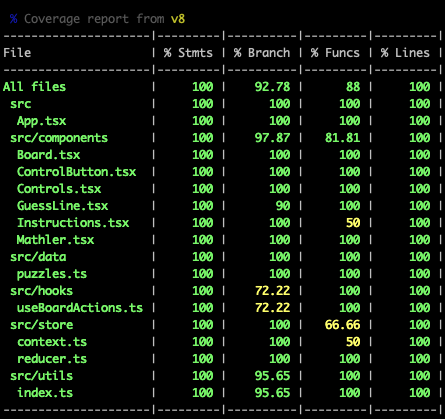
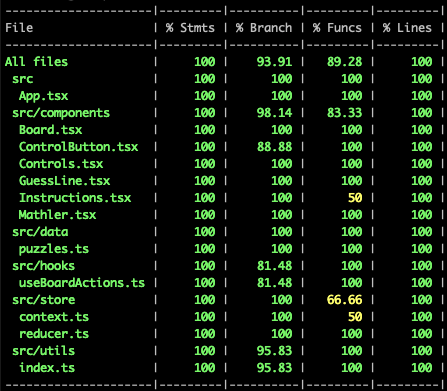
Update README and useBoardActions logic

Changed region(s): [[0.0, 0.0, 0.9933, 1.0]]

diff --git a/src/components/Instructions.tsx b/src/components/Instructions.tsx
@@ -1,7 +1,7 @@
 import { useState } from "react"
 import GuessLine from "./GuessLine"
 
-const Instructions: React.FC = () => {
+function Instructions() {
 	const [showModal, setShowModal] = useState<boolean>(false)
 
 	return (
@@ -27,7 +27,7 @@ const Instructions: React.FC = () => {
 											×
 										</span>
 									</button>
-									<div className="my-4 text-blueGray-500 text-md md:text-lg leading-relaxed">
+									<div className="my-4 text-blueGray-500 text-sm md:text-lg leading-relaxed">
 										<h2 className="font-bold text-2xl mb-2 pb-2 mx-auto border-b border-solid border-blueGray-200">
 											How to play Mathler
 										</h2>
@@ -75,9 +75,6 @@ const Instructions: React.FC = () => {
 												Commutative solutions will be automatically rearranged
 												to the exact solution
 											</li>
-											<p className="font-bold mt-2 md:mt-4">
-												An example of a winning game of 76
-											</p>
 										</ul>
 									</div>
 									<div className="flex items-center justify-end pt-5 border-t border-solid border-blueGray-200 rounded-b">

diff --git a/src/hooks/useBoardActions.ts b/src/hooks/useBoardActions.ts
@@ -49,6 +49,9 @@ function useBoardActions() {
 			areArraysEqual(calcMatches.sort(), curGuessMatches.sort())
 		) {
 			dispatch({ type: "setHasWon", value: true })
+			if (calculation !== currentGuess) {
+				dispatch({ type: "setCalculation", value: currentGuess })
+			}
 
 			// Play winning sound!
 			playWinSound()
@@ -75,17 +78,17 @@ function useBoardActions() {
 
 	const updateControlButtonStatuses = () => {
 		currentGuess.split("").map((char, i) => {
-			console.log(char)
 			if (!calculation?.includes(char)) {
 				controlButtonStatuses.set(char, Status.Incorrect)
-				return
+				return null
 			}
 
 			// Don't update a correct button
-			if (controlButtonStatuses.get(char) === Status.Correct) return
+			if (controlButtonStatuses.get(char) === Status.Correct) return null
 
 			const status = calculation[i] === char ? Status.Correct : Status.Misplaced
 			controlButtonStatuses.set(char, status)
+			return null
 		})
 	}
 

diff --git a/src/components/GuessLine.tsx b/src/components/GuessLine.tsx
@@ -10,13 +10,13 @@ interface GuessLineProps {
 	row: number
 }
 
-const GuessLine: React.FC<GuessLineProps> = ({
+function GuessLine({
 	guess,
 	calculation,
 	isFinal,
 	isWinningRow,
 	row,
-}) => {
+}: GuessLineProps) {
 	const winingRowStyle =
 		"border-green-500 transition-border ease-linear duration-900 border-2 rounded animate-pulse p-2"
 	const animationStyle =
@@ -39,7 +39,7 @@ const GuessLine: React.FC<GuessLineProps> = ({
 					<div
 						key={i}
 						className={twMerge(
-							"w-14 h-14 border-solid border-2 flex items-center justify-center font-bold rounded",
+							"w-12 h-12  border-solid border-2 flex items-center justify-center font-bold rounded",
 							cellStyle,
 							animationClass,
 						)}

diff --git a/src/components/Mathler.tsx b/src/components/Mathler.tsx
@@ -5,7 +5,7 @@ import Board from "./Board"
 import Controls from "./Controls"
 import Instructions from "./Instructions"
 
-const Mathler: React.FC = () => {
+function Mathler() {
 	const [state, dispatch] = useReducer(gameReducer, initState)
 	// eslint-disable-next-line
 	const [showGame, setShowGame] = useState<boolean>(false)
@@ -22,7 +22,7 @@ const Mathler: React.FC = () => {
 						MATHLER
 					</h1>
 				</header>
-				<div className="flex flex-col items-center gap-3 fade-in-scale game-fade-in">
+				<div className="flex flex-col items-center gap-5 fade-in-scale game-fade-in">
 					<Board />
 					<Controls />
 				</div>

diff --git a/src/components/Board.tsx b/src/components/Board.tsx
@@ -1,5 +1,5 @@
 import { Transition } from "@tailwindui/react"
-import React, { useEffect, useState } from "react"
+import { useEffect, useState } from "react"
 import { twMerge } from "tailwind-merge"
 import puzzles from "../data/puzzles"
 import useBoardActions from "../hooks/useBoardActions"
@@ -7,7 +7,7 @@ import { useGame } from "../store/context"
 import { NUM_GUESSES, getGuess, isValidTileValue } from "../utils"
 import GuessLine from "./GuessLine"
 
-const Board: React.FC = () => {
+function Board() {
 	const { state, dispatch } = useGame()
 	const { appendValueIfNeeded, processEnterKey } = useBoardActions()
 	const {

diff --git a/src/components/ControlButton.tsx b/src/components/ControlButton.tsx
@@ -7,7 +7,7 @@ interface ControlButtonProps {
 	className?: string
 }
 
-const ControlButton: React.FC<ControlButtonProps> = ({ text, className }) => {
+function ControlButton({ text, className }: ControlButtonProps) {
 	const { state, dispatch } = useGame()
 
 	// Mouse event handler for game button click

diff --git a/src/components/Controls.tsx b/src/components/Controls.tsx
@@ -1,7 +1,7 @@
 import { numbers, operators } from "../utils"
 import ControlButton from "./ControlButton"
 
-const Controls: React.FC = () => {
+function Controls() {
 	return (
 		<div className="flex flex-col gap-2">
 			<div className="flex justify-center">

diff --git a/README.md b/README.md
@@ -6,8 +6,7 @@ Mather is inspired by the game Wordle. But it is with numbers. The user has 6 gu
 
 - React + Typescript
 - Tailwind
-- Vitest
-- [pnpm](https://pnpm.io/)
+- Vitest + React Testing Library
 
 ## Get started
 
@@ -28,6 +27,32 @@ pnpm test
 ```sh
 pnpm coverage
 ```
+
+## Notes
+
+The game is fully functional and is meeting all the requirements:
+
+- Numbers and operators can appear multiple times.
+- Order of operation applies (\* and / are calculated before + and -)
+- The color of the tiles should change to reflect the status (green / yellow / grey)
+- Should accept commutative solutions (e.g. 1+5\*15 === 15\*5+1)
+- UX: Controlling the game should be done with the mouse and keyboard
+- All game states are functional -- win, loss, partial outcomes, wrong answers, and commutative solutions
+
+UI:
+
+- Dynamic animations added on different game actions
+- Fully responsive
+
+Testing
+
+- The unit test are covering 100% of code lines (see screenshot below), this show my commitment to reliability and high-quality software development.
+- Using the latest Vitest + testing-library/react
+-
+
+Bonus
+
+- Make sure you have the sound on when you're winning! 🔊
 
 ## Screenshot
 
